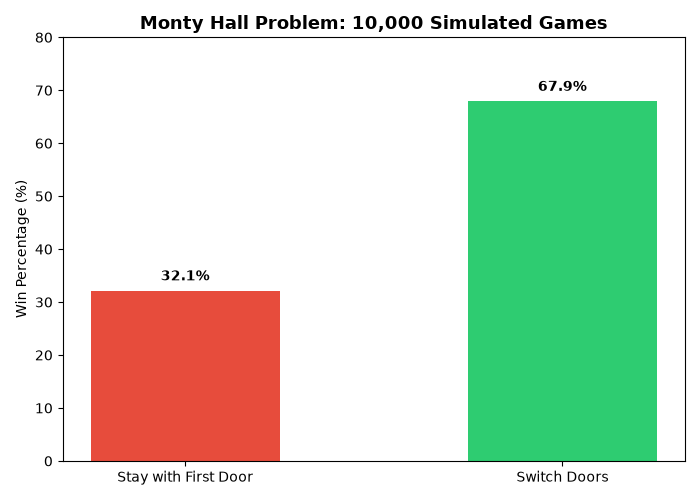
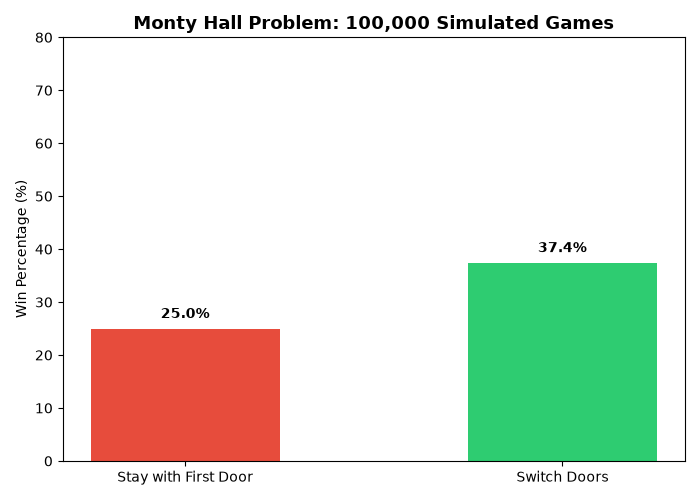
Update Monty Hall simulation to 4 doors and 100,000 trials

Changed region(s): [[0.66, 0.15, 0.96, 0.54], [0.12, 0.54, 0.42, 0.66], [0.18, 0.03, 0.9, 0.06]]

diff --git a/monty_hall.py b/monty_hall.py
@@ -1,25 +1,25 @@
 import random
 import matplotlib.pyplot as plt
 
-trials = 10000
+trials = 100000
 stay_wins = 0
 switch_wins = 0
 
 for _ in range(trials):
-    # 3 doors: 1 car (prize), 2 goats
-    doors = ["goat", "goat", "car"]
+    # 4 doors: 1 car (prize), 3 goats
+    doors = ["goat", "goat", "car", "goat"]
     random.shuffle(doors)
 
-    # Player picks a random door (0, 1, or 2)
-    player_choice = random.randint(0, 2)
+    # Player picks a random door (0, 1, 2 or 3)
+    player_choice = random.randint(0, 3)
 
     # Host opens a remaining door that has a goat
-    remaining_doors = [i for i in range(3) if i != player_choice and doors[i] == "goat"]
+    remaining_doors = [i for i in range(4) if i != player_choice and doors[i] == "goat"]
     host_opens = random.choice(remaining_doors)
 
     # The other unopened door if the player switches
-    switch_choice = [i for i in range(3) if i != player_choice and i != host_opens][0]
-
+    switch_choice = random.choice([i for i in range(4) if i != player_choice and i != host_opens])
+   
     if doors[player_choice] == "car":
         stay_wins += 1
     if doors[switch_choice] == "car":
@@ -38,7 +38,7 @@ win_rates = [stay_pct, switch_pct]
 
 plt.figure(figsize=(7, 5))
 bars = plt.bar(strategies, win_rates, color=["#e74c3c", "#2ecc71"], width=0.5)
-plt.title("Monty Hall Problem: 10,000 Simulated Games", fontsize=13, fontweight="bold")
+plt.title("Monty Hall Problem: 100,000 Simulated Games", fontsize=13, fontweight="bold")
 plt.ylabel("Win Percentage (%)")
 plt.ylim(0, 80)
 
